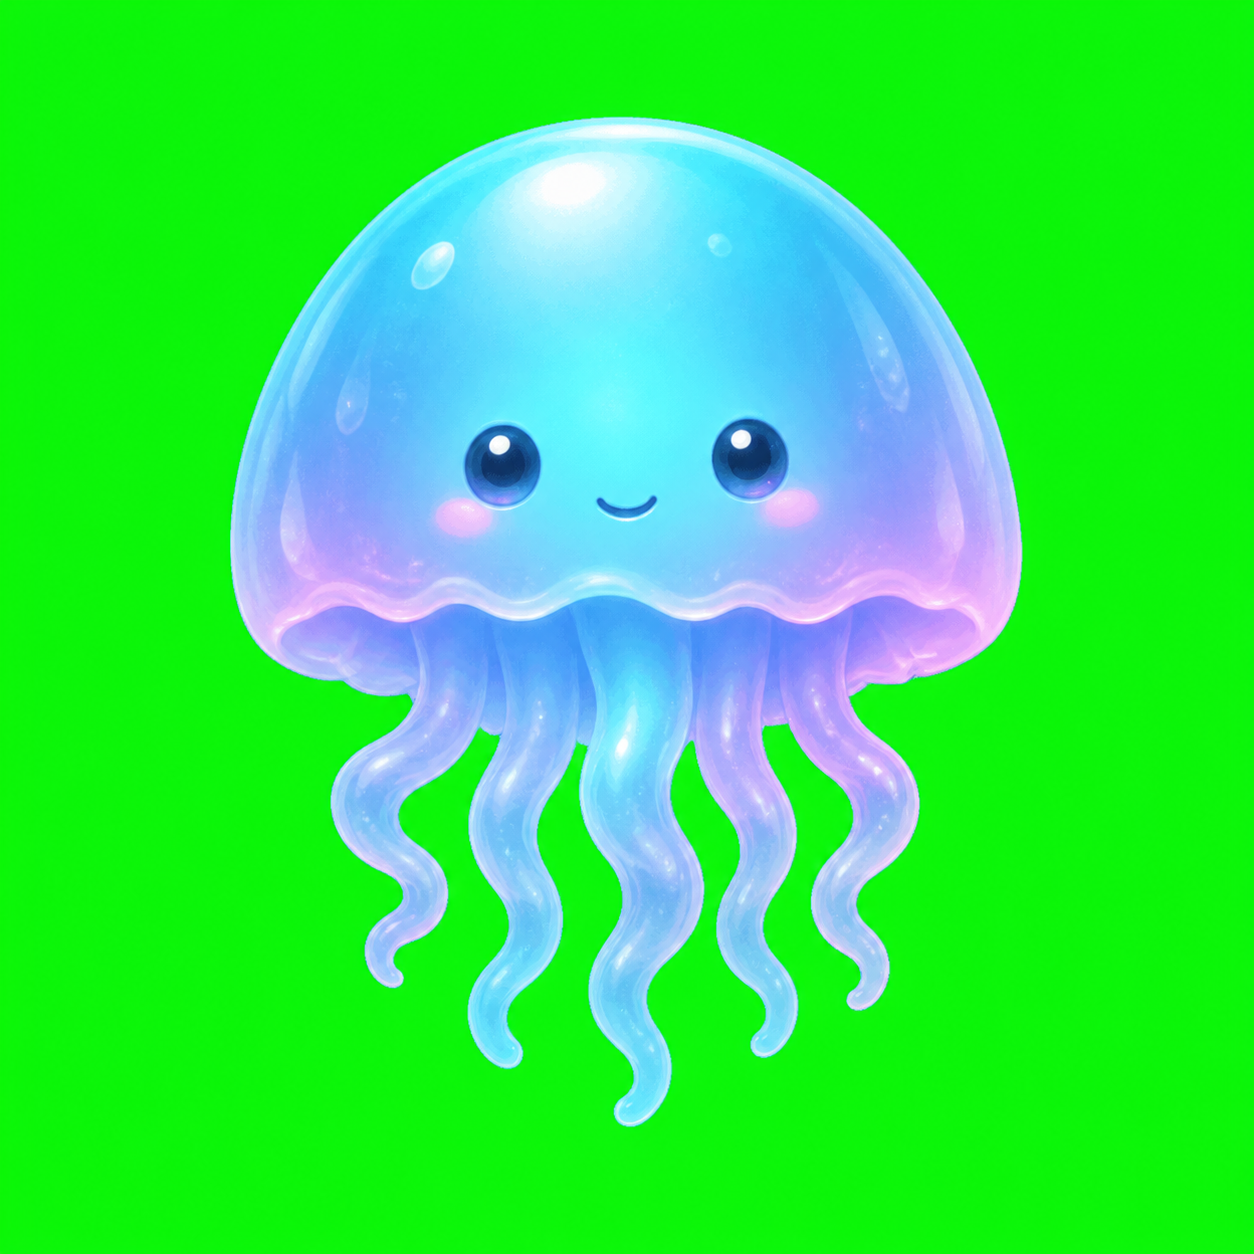
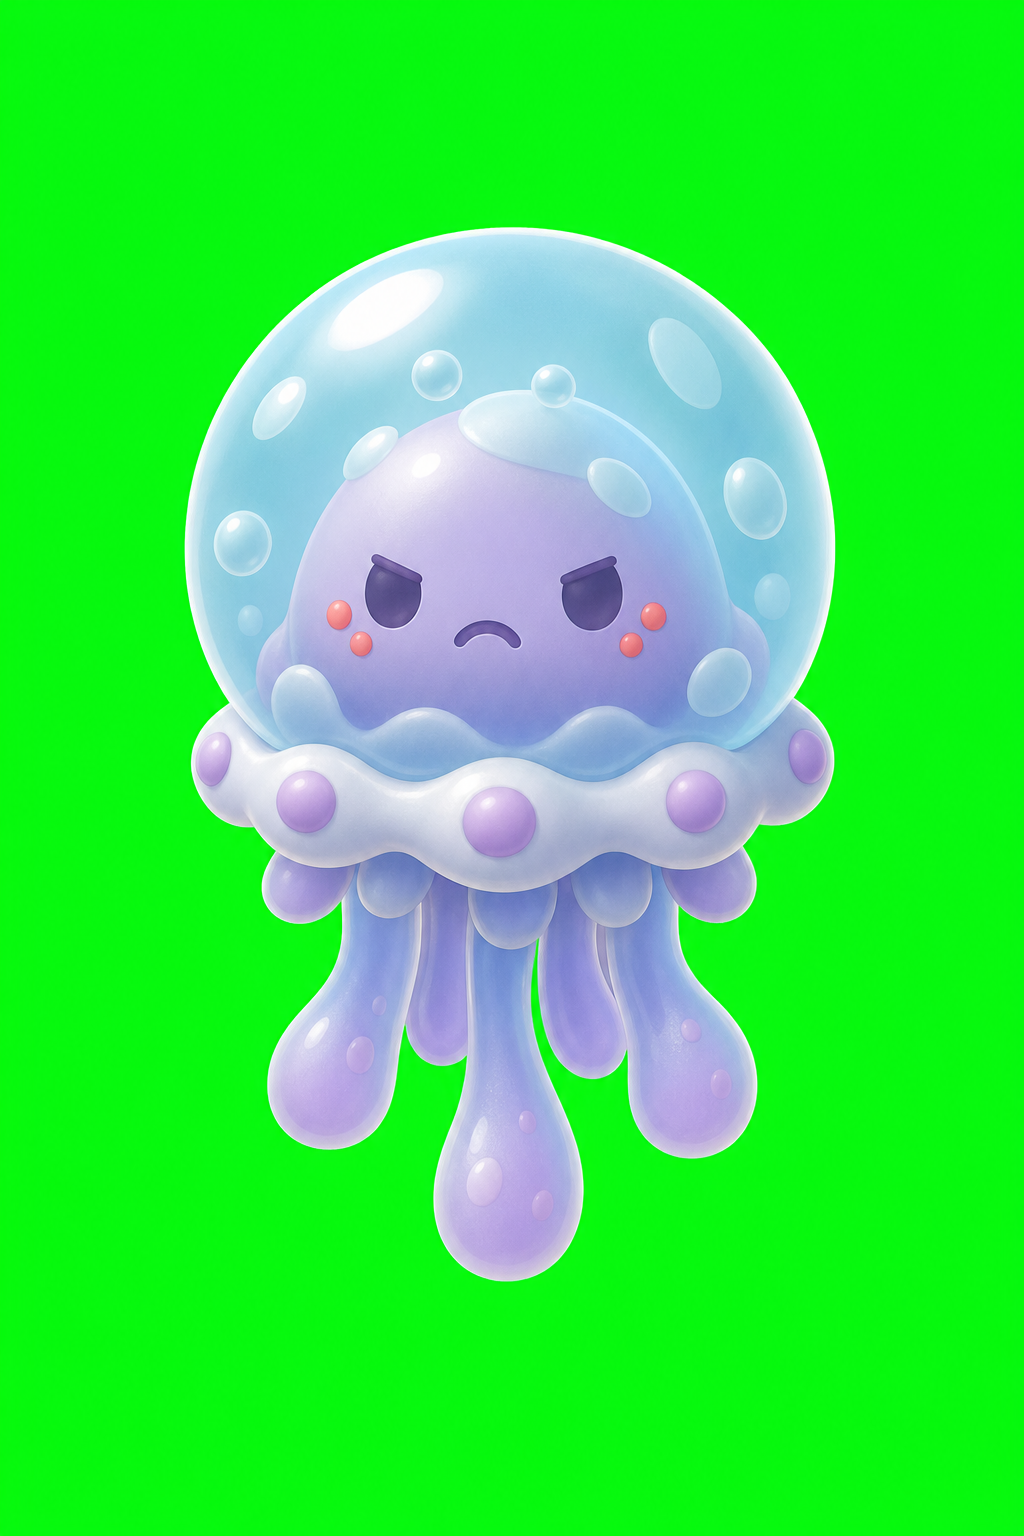
feat: 非鳥敵スプライトを底上げし動きを強化

diff --git a/index.html b/index.html
@@ -2024,9 +2024,11 @@ function drawGainBreakdown(cx,y){
 function drawPelican(x,sy,hw,hh){
   const img=sprites.pelican, bw=hw*2.0, bh=hh*3.0;
   if(img&&img.complete&&img.naturalWidth){ const dw=bw*1.7, dh=dw*(img.naturalHeight/img.naturalWidth);
-    // ゆっくりホバリング＝上下動＋大翼を縦スケールで重く羽ばたかせる(板＝重い鳥の存在感)
-    const w=Math.sin(tsec*3.2 + x*0.03), bob=Math.sin(tsec*2.2 + x*0.05)*dh*0.045;
-    ctx.save(); ctx.translate(x,sy+bob); ctx.scale(1, 1+w*0.07);
+    // 重い板鳥のパタパタ。翼先が上下して見えるよう、絵全体を少し潰し伸ばしする。
+    const flap=Math.sin(tsec*4.8 + x*0.03);
+    const bob=Math.sin(tsec*2.0 + x*0.05)*dh*0.055 - Math.max(0,flap)*dh*0.035;
+    const squash=1+flap*0.105;
+    ctx.save(); ctx.translate(x,sy+bob); ctx.rotate(Math.sin(tsec*1.7+x*0.02)*0.025); ctx.scale(1-flap*0.018, squash);
     ctx.shadowColor='rgba(0,0,0,0.35)'; ctx.shadowBlur=8; ctx.shadowOffsetY=5;
     ctx.drawImage(img,-dw/2,-dh/2,dw,dh); ctx.restore(); return; }
   ctx.save(); ctx.translate(x,sy);
@@ -2050,9 +2052,13 @@ function drawPelican(x,sy,hw,hh){
 function drawFloat(x,sy,r,ph){
   const img=sprites.float;
   if(img&&img.complete&&img.naturalWidth){ const dh=r*2.4, dw=dh*(img.naturalWidth/img.naturalHeight);
-    // クラゲの拍動＝横に伸び縦に縮む(面積を保つ)＋ゆらり上下＝“漂う生き物”
-    const p=Math.sin(tsec*2.6+ph), bob=Math.sin(tsec*1.8+ph)*r*0.10;
-    ctx.save(); ctx.globalAlpha=0.95; ctx.translate(x,sy+bob); ctx.scale(1+p*0.07, 1-p*0.07);
+    // クラゲのふわふわ。横伸び→縦縮みの拍動に、遅い上下漂流と小さな首振りを足す。
+    const pulse=Math.sin(tsec*3.0+ph), drift=Math.sin(tsec*1.2+ph*0.7);
+    const bob=drift*r*0.22 - Math.max(0,pulse)*r*0.10;
+    ctx.save(); ctx.globalAlpha=0.94+0.04*Math.sin(tsec*2.2+ph);
+    ctx.translate(x+Math.sin(tsec*1.55+ph)*r*0.07,sy+bob);
+    ctx.rotate(Math.sin(tsec*1.4+ph)*0.045);
+    ctx.scale(1+pulse*0.095, 1-pulse*0.085);
     ctx.drawImage(img,-dw/2,-dh/2,dw,dh); ctx.restore(); return; }
   const pulse=0.5+0.5*Math.sin(tsec*3+ph);
   ctx.save(); ctx.translate(x,sy);
@@ -2212,9 +2218,9 @@ function draw(){
       } else {
         // ★羽ばたき：翼を縦スケールであおる(下げ＝縮む)＋揚力の上下動＋わずかな機首の傾き。
         //   小鳥は速く深く・タカは遅く浅く(滑空感)。当たり判定はb.yのままで見た目だけ動かす。
-        const fast=(b.type==='small'), hz=fast?12:6.5, amp=fast?0.18:0.10;
+        const hawk=sprName==='hawk', fast=(b.type==='small'), hz=hawk?7.5:(fast?12:6.5), amp=hawk?0.135:(fast?0.18:0.10);
         const w=Math.sin(tsec*hz + b.cy*0.06 + ph);
-        const bob=-w*dh*(fast?0.07:0.05), tilt=Math.sin(tsec*hz*0.5 + b.cy*0.05 + ph)*0.06;
+        const bob=-w*dh*(hawk?0.065:(fast?0.07:0.05)), tilt=Math.sin(tsec*hz*0.5 + b.cy*0.05 + ph)*(hawk?0.085:0.06);
         ctx.translate(b.x,sy+bob); ctx.rotate(tilt*flip);
         ctx.scale(flip*(1-w*amp*0.4), 1+w*amp);       // 翼を上下にあおる＋ごく僅かな横の伸縮
         ctx.drawImage(img,-dw/2,-dh/2,dw,dh);

diff --git a/assets/sprites/_enemies_preview.html b/assets/sprites/_enemies_preview.html
@@ -7,7 +7,8 @@ h1{text-align:center;padding:10px;text-shadow:0 1px 2px #0006}
 <h1>敵スプライト（挙動ごとに別の見た目）</h1>
 <div class="row">
 <div class="c"><img src="bird_small.png"><div>スイフト（速いジグザグ／群れ）</div></div>
-<div class="c"><img src="bird_large.png"><div>ペリカン（大きいゆったり）</div></div>
+<div class="c"><img src="pelican.png"><div>ペリカン板（上かぶり）</div></div>
 <div class="c"><img src="hawk.png"><div>タカ（追尾→急襲ダイバー）</div></div>
 <div class="c"><img src="storm.png"><div>雷雲（静止障害物）</div></div>
+<div class="c"><img src="float.png"><div>フロート（下からふわふわ）</div></div>
 </div>

diff --git a/HANDOFF.md b/HANDOFF.md
@@ -1,5 +1,13 @@
 # HANDOFF — hippo-rocket 引き継ぎ
 
+> ## ★Codex追記（2026-06-27 非鳥敵スプライト底上げ＋見た目アニメ強化）
+> **実装済み・未push。** HANDOFF最優先の「非・鳥の敵スプライトの底上げ」を4種まとめて実施。既存の挙動・当たり判定は変えず、見た目の差し替えと描画時アニメだけを強化。
+> - **生成/差し替え**：`assets/states/{pelican,hawk,storm,float}.png` をCodex内蔵画像生成で作り直し、`tools/dechroma_green.cjs`/`tools/dechroma_magenta.cjs`で `assets/sprites/` へ透過出力。生成元は `C:\Users\mr_ba\.codex\generated_images\019f0798-09d9-7461-bcac-648665ccb3fd`。
+> - **見た目**：ペリカン板＝横長の重い板鳥、タカ＝急降下が読める斜めシルエット、雷雲＝紫灰のもくもく障害物、フロート＝泡クラゲ。
+> - **アニメ**：`drawPelican()` のパタパタ/ホバリングを強化、`drawFloat()` にふわふわ漂流＋拍動＋首振りを追加、`hawk` は共通鳥描画内で羽ばたき/bob/傾きを少し強めた。いずれも描画だけで、敵の実座標・通路判定は不変。
+> - **確認**：`node tools/smoke.cjs` OK、`node tools/validate.cjs` OK。ヘッドレス撮影は `?demo=over` と `?demo=float` を確認済み（`.shots/enemy_over.png` / `.shots/enemy_float.png`）。`storm`/`dive` のChrome単発撮影は環境側でタイムアウトしたため、素材単体の透過alphaと機械検証まで確認。
+> - **次の一手**：実機で4敵の動き量を見る。足りなければ小鳥/タカの実フレーム化（翼上げ/下げ）か、雷雲の画面内サイズ調整。次候補は機体差別化（コメット強化）または実機チューニング。
+
 > ## ★★Codexへの引継ぎ（2026-06-27 Claude→Codex／優先順位つき）★★
 > **担当をCodexへ。Claude分は全コミット済み・未push（push禁止／HANDOFF常時更新）。**
 > ユーザーFB（最新）：「鳥の地域変種はこだわりすぎ・他の敵もやって」「敵の動きが少ない＝チープ(羽ばたき等)」。

diff --git a/素材棚卸し.md b/素材棚卸し.md
@@ -34,12 +34,16 @@
 - ※`power`(クワッ大口/無敵)はスター無敵廃止で**現状デッド資産**。新規装備のpowerは作らない。
 - ※`veh_kotsubu.png`はこつぶ廃止で不要（削除可・当面放置）。
 
-## ② 障害・敵（要・画像）※現状グレイボックス三角
+## ② 障害・敵（画像）
 | 種類 | 有無 | 備考 |
 |---|---|---|
 | 鳥（小・速い） | ✅ | `bird_small`（ティール/橙のスイフト）。横切る基本敵。原画右向き→dirで反転 |
 | 鳥（大・ゆっくり） | ✅ | `bird_large`（紫のペリカン）。圧のある敵。高度が上がると出現比↑ |
-| 静的障害（雲塊/柱など） | ⬜ | 必要なら |
+| 上かぶり板 | ✅ | `pelican`。横長の重い板鳥。drawPelicanでパタパタ＋ホバリング |
+| 急襲タカ | ✅ | `hawk`。赤予告→急降下。描画時に羽ばたき/bobを強める |
+| 雷雲 | ✅ | `storm`。静止障害物＋落雷。マゼンタキーで透過 |
+| フロート泡/クラゲ | ✅ | `float`。下からせり上がる敵。drawFloatでふわふわ拍動 |
+| 静的障害（雲塊/柱など） | ⬜ | 追加が必要になったら |
 
 ## ③ アイテム（要・画像 小サイズ）
 | 種類 | 有無 |
